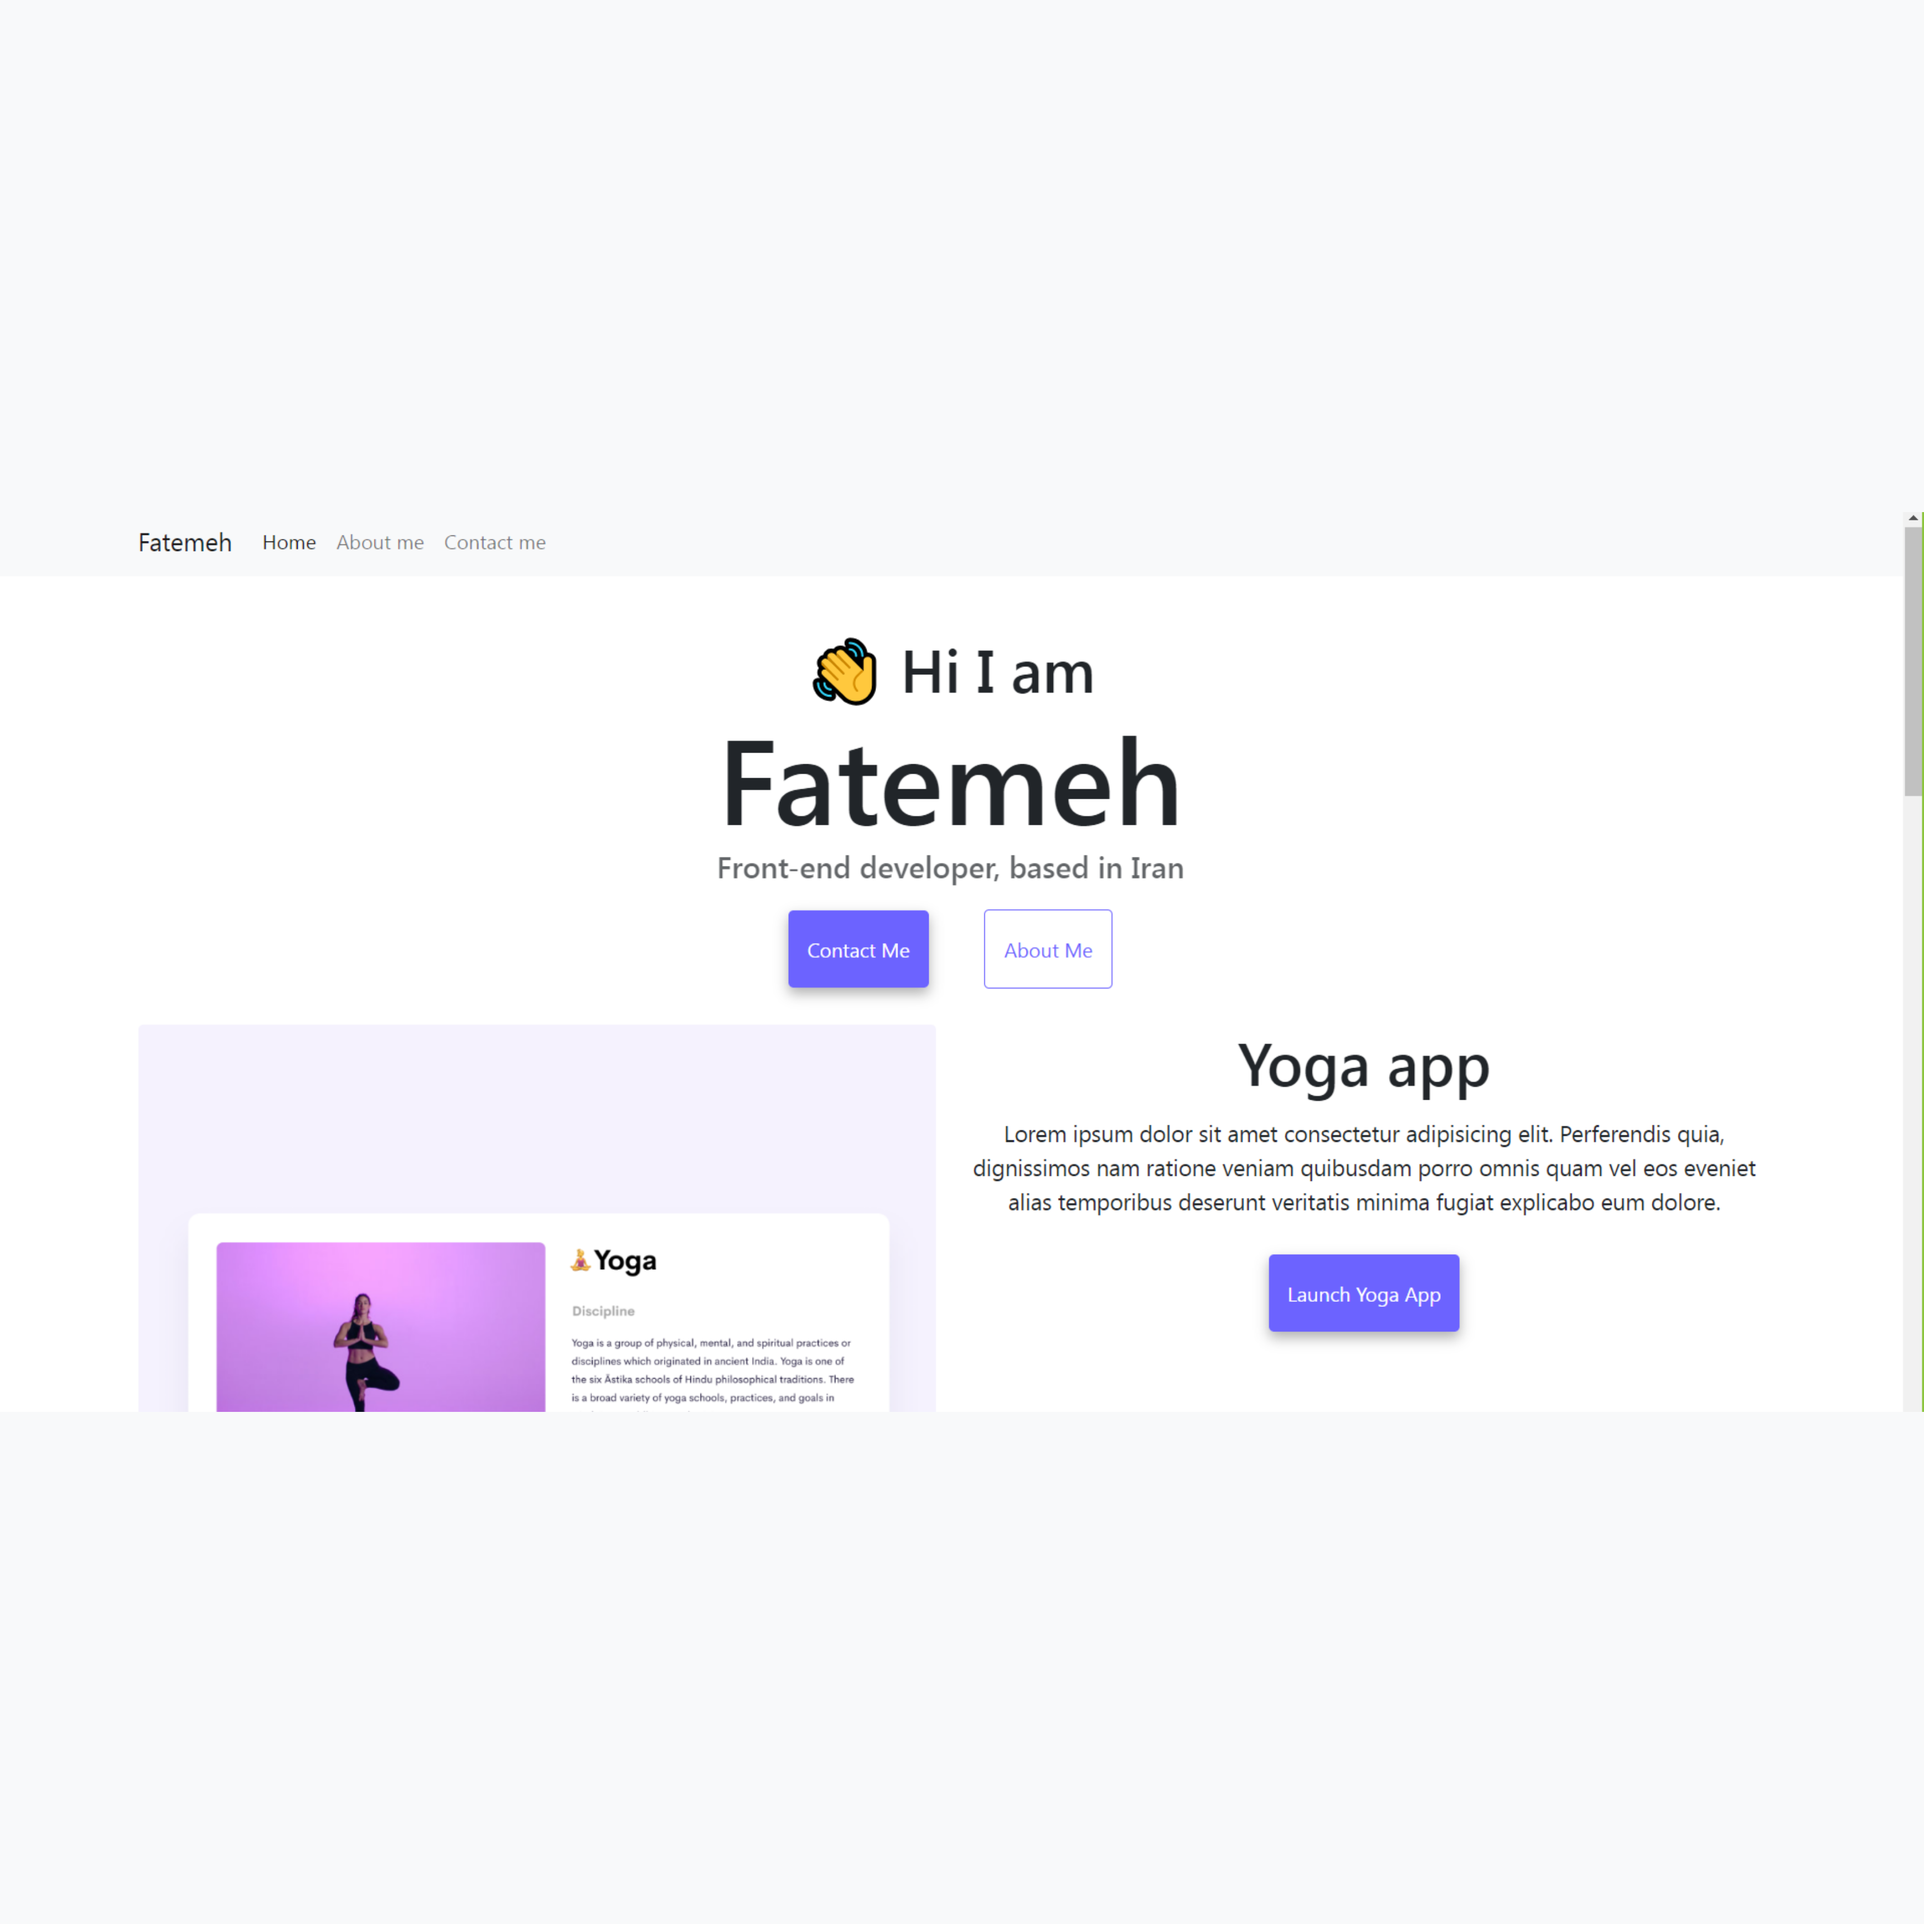
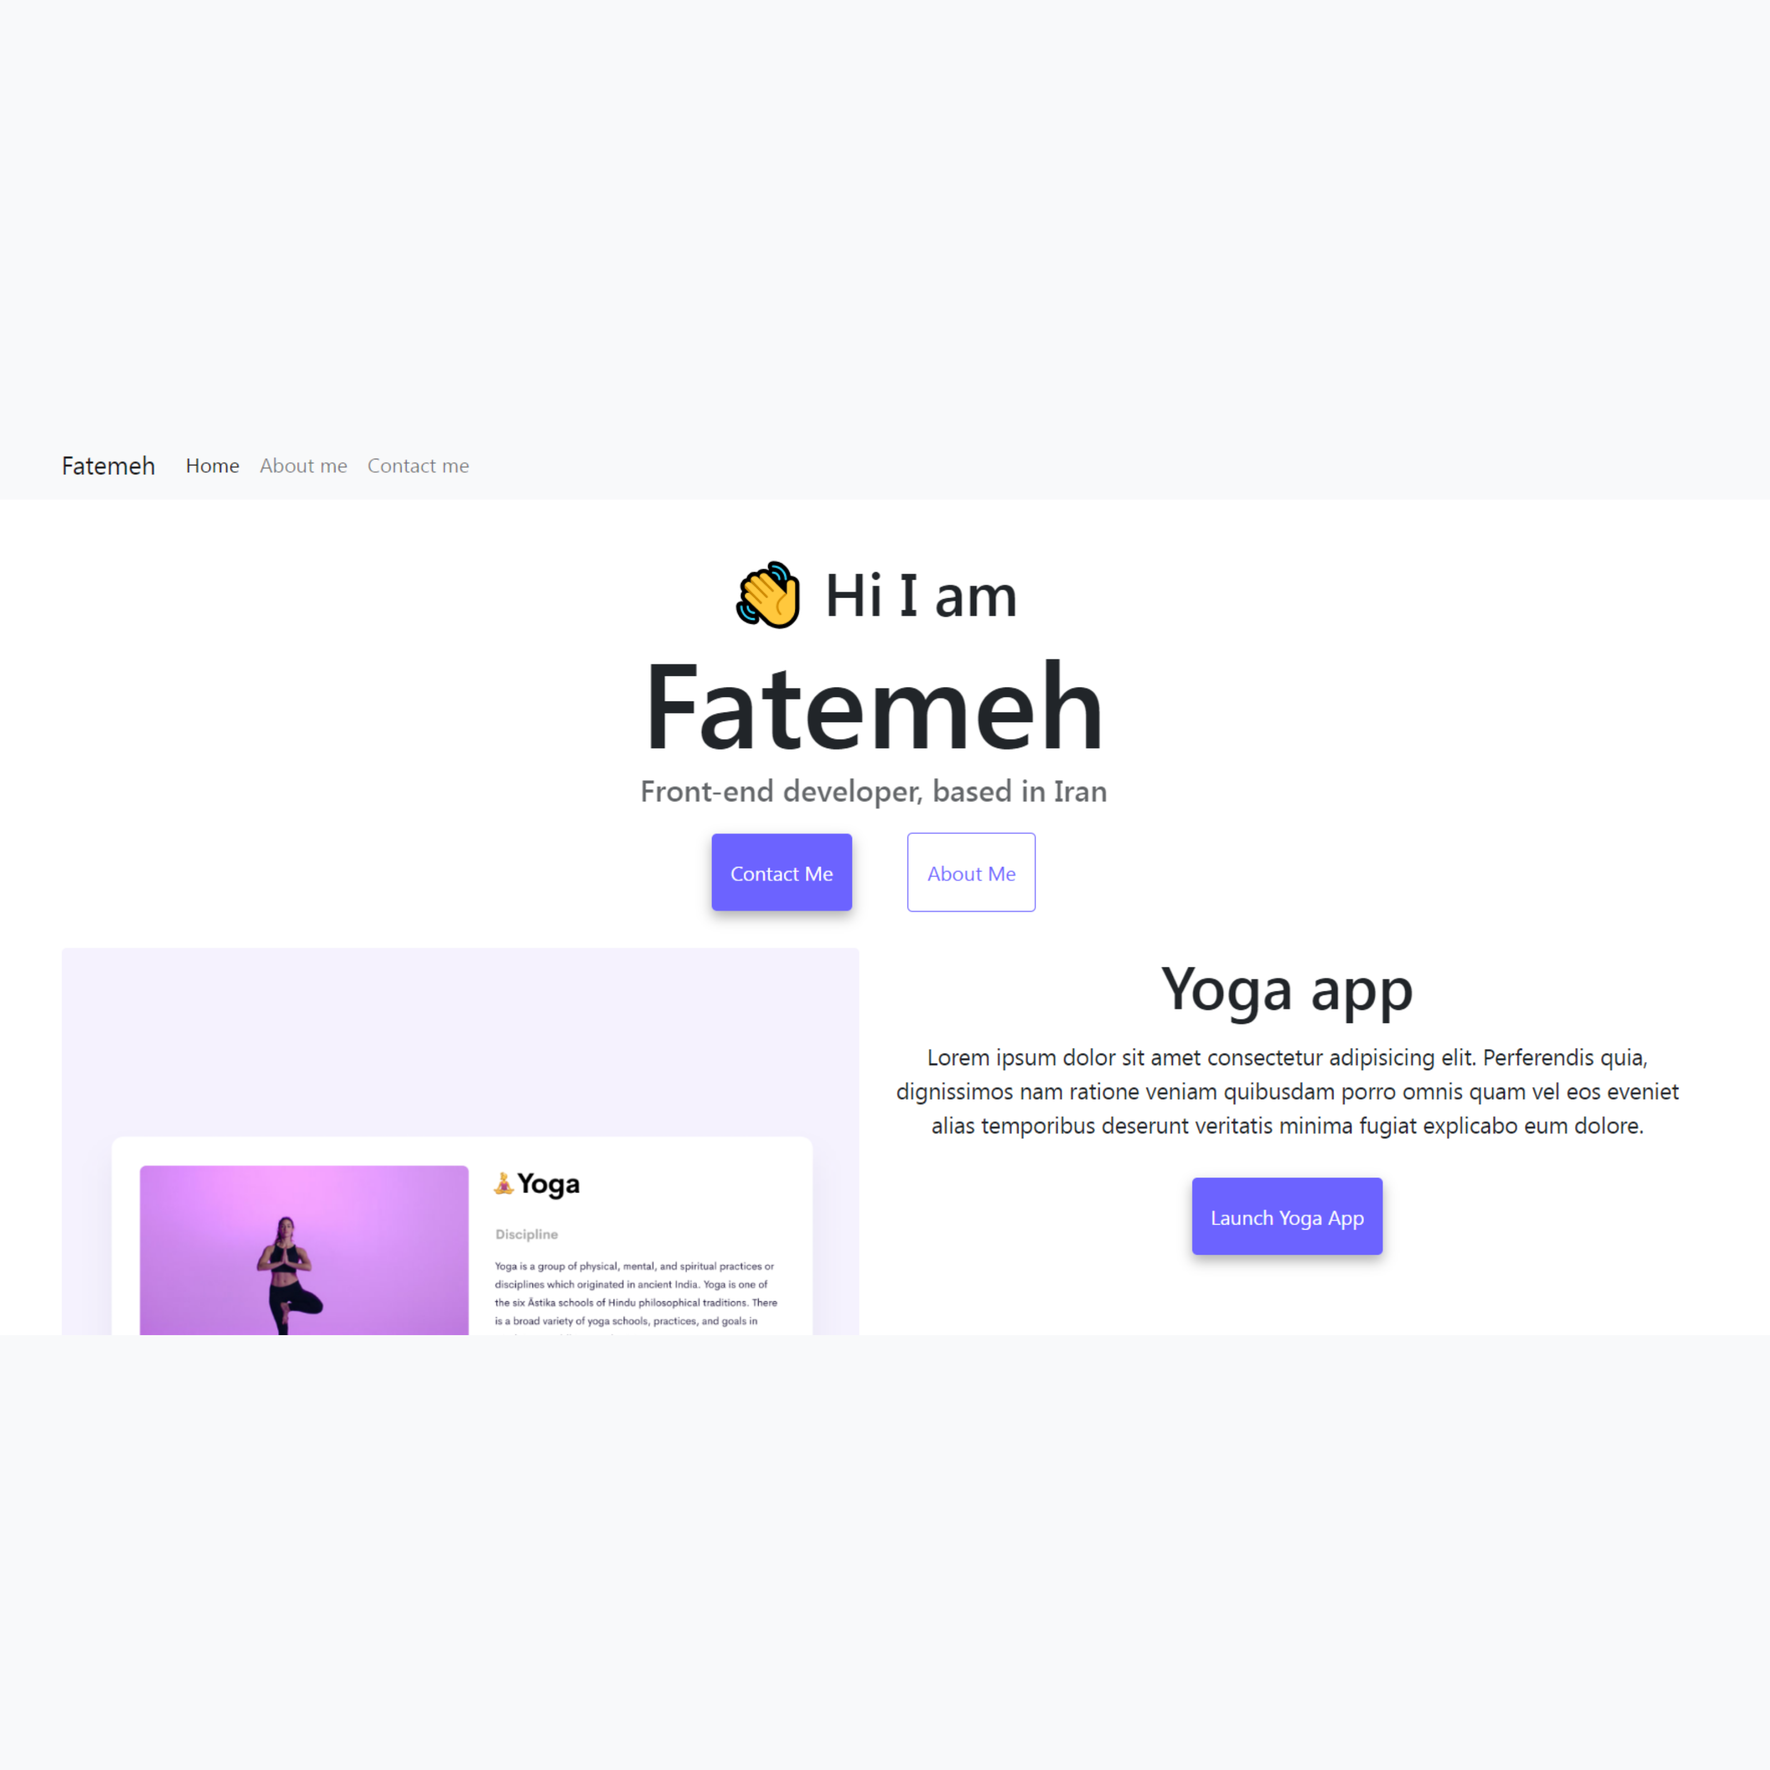
add links

diff --git a/index.html b/index.html
@@ -4,7 +4,7 @@
     <meta charset="UTF-8" />
     <meta http-equiv="X-UA-Compatible" content="IE=edge" />
     <meta name="viewport" content="width=device-width, initial-scale=1.0" />
-    <title>[YOUR NAME]</title>
+    <title>Fatemeh</title>
     <link
       href="https://cdn.jsdelivr.net/npm/bootstrap@5.0.0-beta2/dist/css/bootstrap.min.css"
       rel="stylesheet"
@@ -19,9 +19,9 @@
     <link rel="stylesheet" href="style.css" />
   </head>
   <body>
-    <nav class="navbar navbar-expand-lg navbar-light bg-light fixed-top">
+    <nav class="navbar navbar-expand-lg navbar-dark bg-dark fixed-top">
       <div class="container">
-        <a class="navbar-brand" href="index.html">[YOUR NAME]</a>
+        <a class="navbar-brand" href="index.html">Fatemeh</a>
         <button
           class="navbar-toggler"
           type="button"
@@ -41,10 +41,10 @@
               >
             </li>
             <li class="nav-item">
-              <a class="nav-link" href="about.html">About me</a>
+              <a class="nav-link" href="#">About me</a>
             </li>
             <li class="nav-item">
-              <a class="nav-link" href="about.html#contact">Contact me</a>
+              <a class="nav-link" href="#">Contact me</a>
             </li>
           </ul>
         </div>
@@ -52,17 +52,17 @@
     </nav>
     <div class="final">
       <h2 class="text-center">👋 Hi I am</h2>
-      <h1 class="text-center">[YOUR NAME]</h1>
+      <h1 class="text-center">Fatemeh</h1>
       <h3 class="text-center">Front-end developer, based in [YOUR LOCATION]</h3>
       <div class="navigation-links mb-5">
-        <a href="about.html#contact" class="primary-link">Contact me</a>
-        <a href="about.html" class="secondary-link">About me</a>
+        <a href="#" class="primary-link">Contact me</a>
+        <a href="#" class="secondary-link">About me</a>
       </div>
       <div class="container">
         <div class="row">
           <div class="col-6">
             <img
-              src="images/yoga.png"
+              src="images/photo2.png"
               class="img-fluid rounded d-none d-sm-block"
             />
           </div>
@@ -94,7 +94,7 @@
           </div>
           <div class="col-6">
             <img
-              src="images/weather.png"
+              src="images/photo3.png"
               class="img-fluid rounded d-none d-sm-block"
             />
           </div>
@@ -102,7 +102,7 @@
         <div class="row mt-5">
           <div class="col-6">
             <img
-              src="images/yogurt.png"
+              src="images/photo1.png"
               class="img-fluid rounded d-none d-sm-block"
             />
           </div>

diff --git a/style.css b/style.css
@@ -6,6 +6,7 @@
 
 body {
   margin-top: 100px;
+  background-color: #dbd3ca;
 }
 
 h1,
